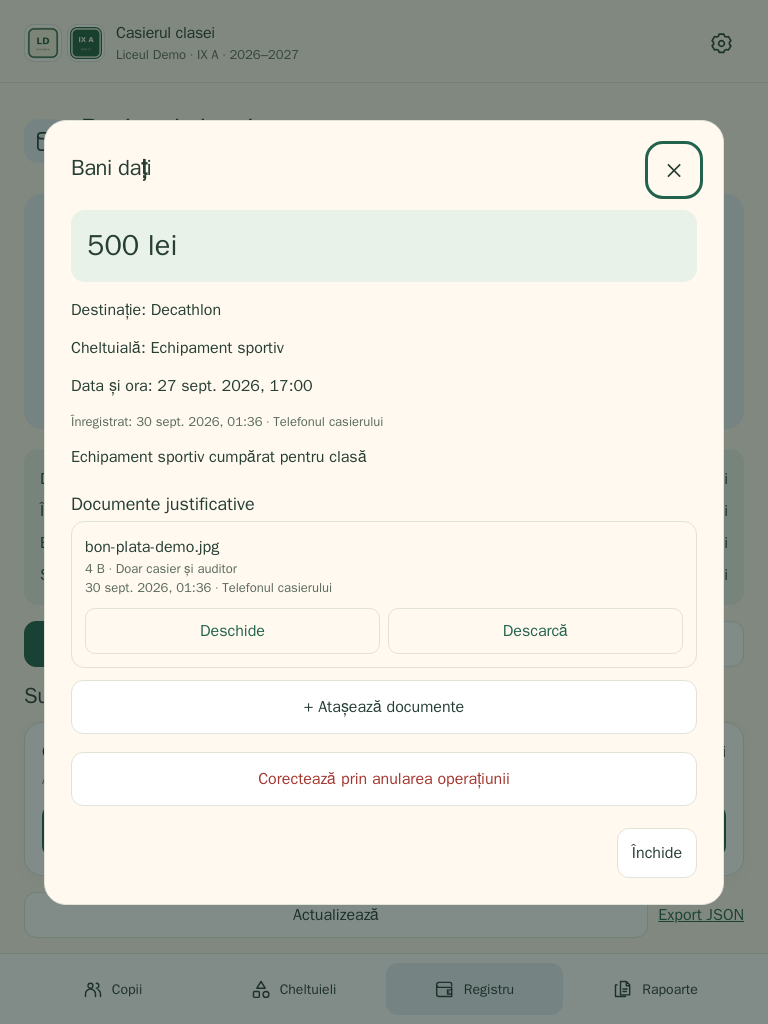
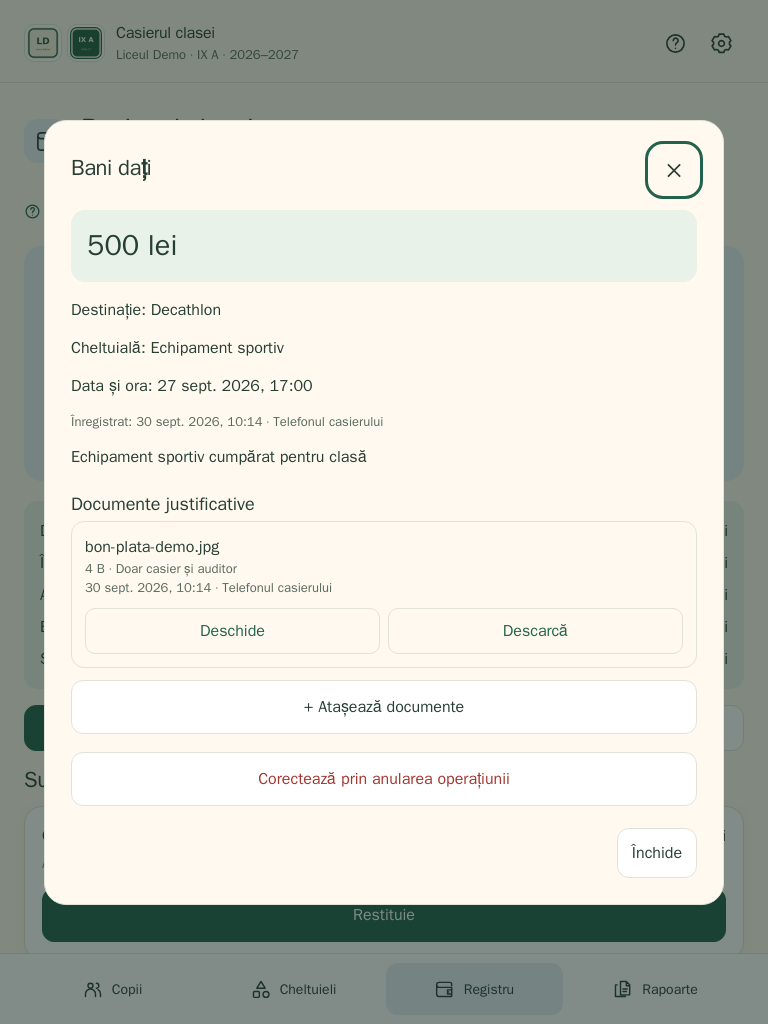
Refresh documentation against current app

diff --git a/design/community-style.md b/design/community-style.md
@@ -23,7 +23,7 @@ PDF-urile nou emise au un antet pastelat cu un caiet, creion și avion de hârti
 
 Aceste ilustrații sunt desenate în cod: SVG local în `web/app.js`, respectiv primitive vectoriale PDFKit în `server/report-art.mjs`. Rămân clare la imprimare și nu adaugă dependențe, imagini raster sau servicii externe. Prezentarea nouă se aplică la emitere; PDF-urile deja arhivate păstrează conținutul și aspectul original.
 
-Cheltuielile din situația clasei, raportul individual al cheltuielii și antetul Tabelului contribuțiilor afișează acoperirea din contribuții: `collectedMinor / totalMinor`, cu bară vectorială și procent scris. Procentul folosește cel mult o zecimală, rotunjită în jos; 100% apare doar la acoperire integrală. O contribuție pozitivă sub 0,1% apare ca „<0,1%”. Pentru necesar zero se afișează „Fără sumă de acoperit” (în antetul tabelului: „—”). Plățile, finanțarea temporară și avansurile nealocate nu sunt contribuții încasate pentru cheltuială.
+Cheltuielile din situația clasei, raportul individual al cheltuielii și antetul Tabelului contribuțiilor afișează acoperirea totală: `(collectedMinor + coveredMinor) / totalMinor`, cu bară vectorială și procent scris. Încasările de la părinți și sumele acoperite definitiv din fond apar separat în detalii. Procentul folosește cel mult o zecimală, rotunjită în jos; 100% apare doar la acoperire integrală. O acoperire pozitivă sub 0,1% apare ca „<0,1%”. Pentru necesar zero se afișează „Fără sumă de acoperit” (în antetul tabelului: „—”). Plățile către furnizori, partea încă rambursabilă a finanțării temporare și avansurile nealocate ale copiilor nu intră în procent.
 
 ## Aspect adaptiv
 

diff --git a/README.md b/README.md
@@ -8,7 +8,7 @@ Aplicația: https://casierul-clasei.zandaulion.com
 
 ## Capturi de ecran
 
-Datele afișate în capturi sunt integral sintetice. Setul surprinde și contactele WhatsApp, detaliile de plată, totalul de achitat din Tabelul contribuțiilor și istoricul Registrului cu operațiunile recente primele.
+Datele afișate în capturi sunt integral sintetice. Setul surprinde și contactele WhatsApp, detaliile de plată, totalul de achitat din Tabelul contribuțiilor, istoricul Registrului cu operațiunile recente primele și Ajutorul vizual integrat.
 
 <table>
   <tr>
@@ -40,6 +40,11 @@ Datele afișate în capturi sunt integral sintetice. Setul surprinde și contact
     <td align="center"><img src="docs/screenshots/07-raport-pdf-tableta-1024x768.png" alt="Previzualizarea PDF a Tabelului contribuțiilor cu totalul de plată pentru fiecare copil" width="440"><br><strong>Tabelul contribuțiilor în PDF · 1024×768</strong></td>
   </tr>
 </table>
+
+<p align="center">
+  <img src="docs/screenshots/09-ajutor-tableta-768x1024.png" alt="Ajutorul vizual cu fluxurile aplicației" width="560"><br>
+  <strong>Ajutor general și contextual · 768×1024</strong>
+</p>
 
 ## Începe
 
